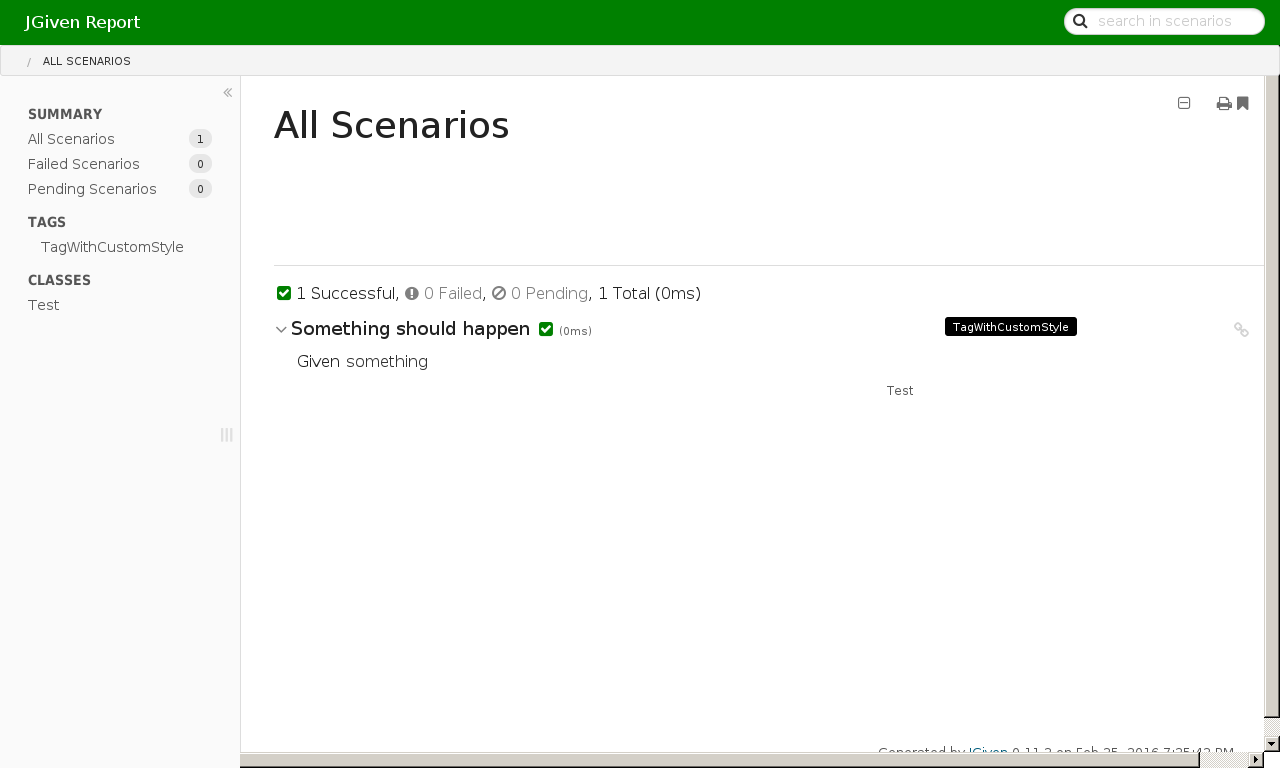
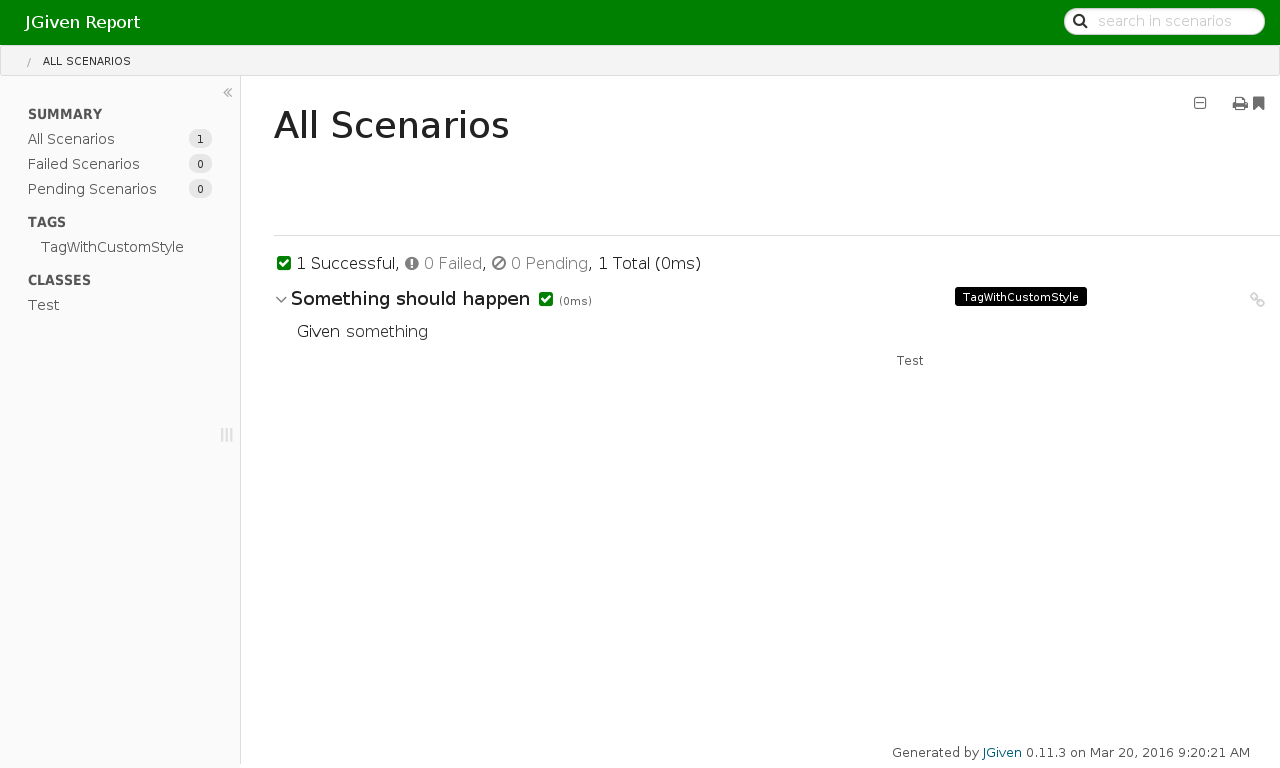
added generated jgiven report to gh-pages

diff --git a/jgiven-report/html5/data/data0.js b/jgiven-report/html5/data/data0.js
@@ -1,1 +1,1 @@
[2 lines of base64/hex data omitted]

diff --git a/jgiven-report/html5/index.html b/jgiven-report/html5/index.html
@@ -668,7 +668,7 @@
 
         <div class="footer-bottom" ng-if="!currentPage.embed">
           <div class="small-12 columns">
-            Generated by <a href="http://jgiven.org">JGiven</a> 0.11.2 on
+            Generated by <a href="http://jgiven.org">JGiven</a> 0.11.3 on
             {{metaData.created}}
           </div>
         </div>

diff --git a/jgiven-report/html5/data/metaData.js b/jgiven-report/html5/data/metaData.js
@@ -1,1 +1,1 @@
-jgivenReport.setMetaData({"created":"Feb 25, 2016 7:25:48 PM","title":"JGiven Report","data":["data0.js"]} );
+jgivenReport.setMetaData({"created":"Mar 20, 2016 9:20:38 AM","title":"JGiven Report","data":["data0.js"]} );
